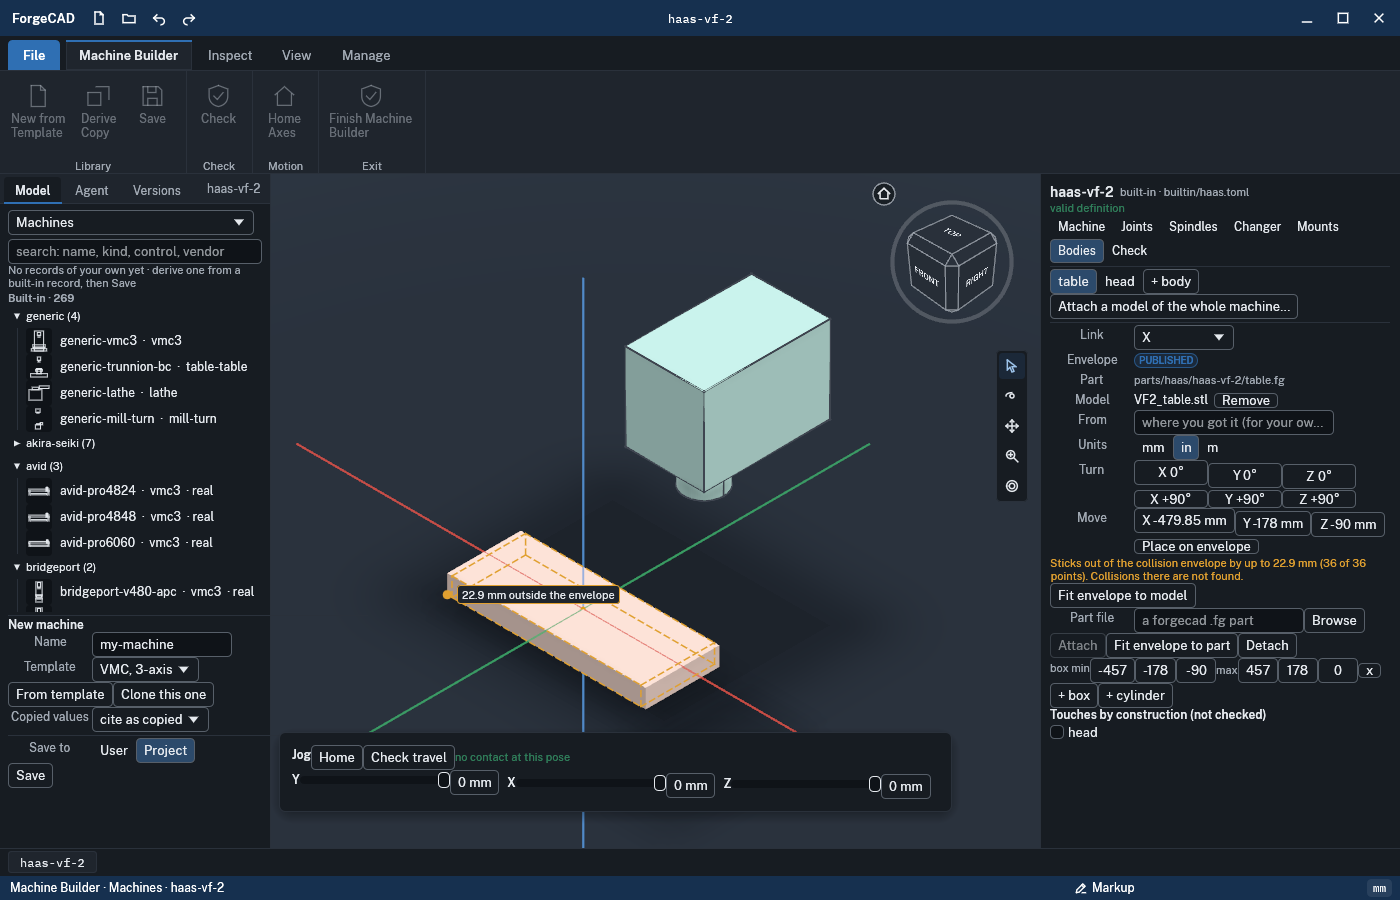
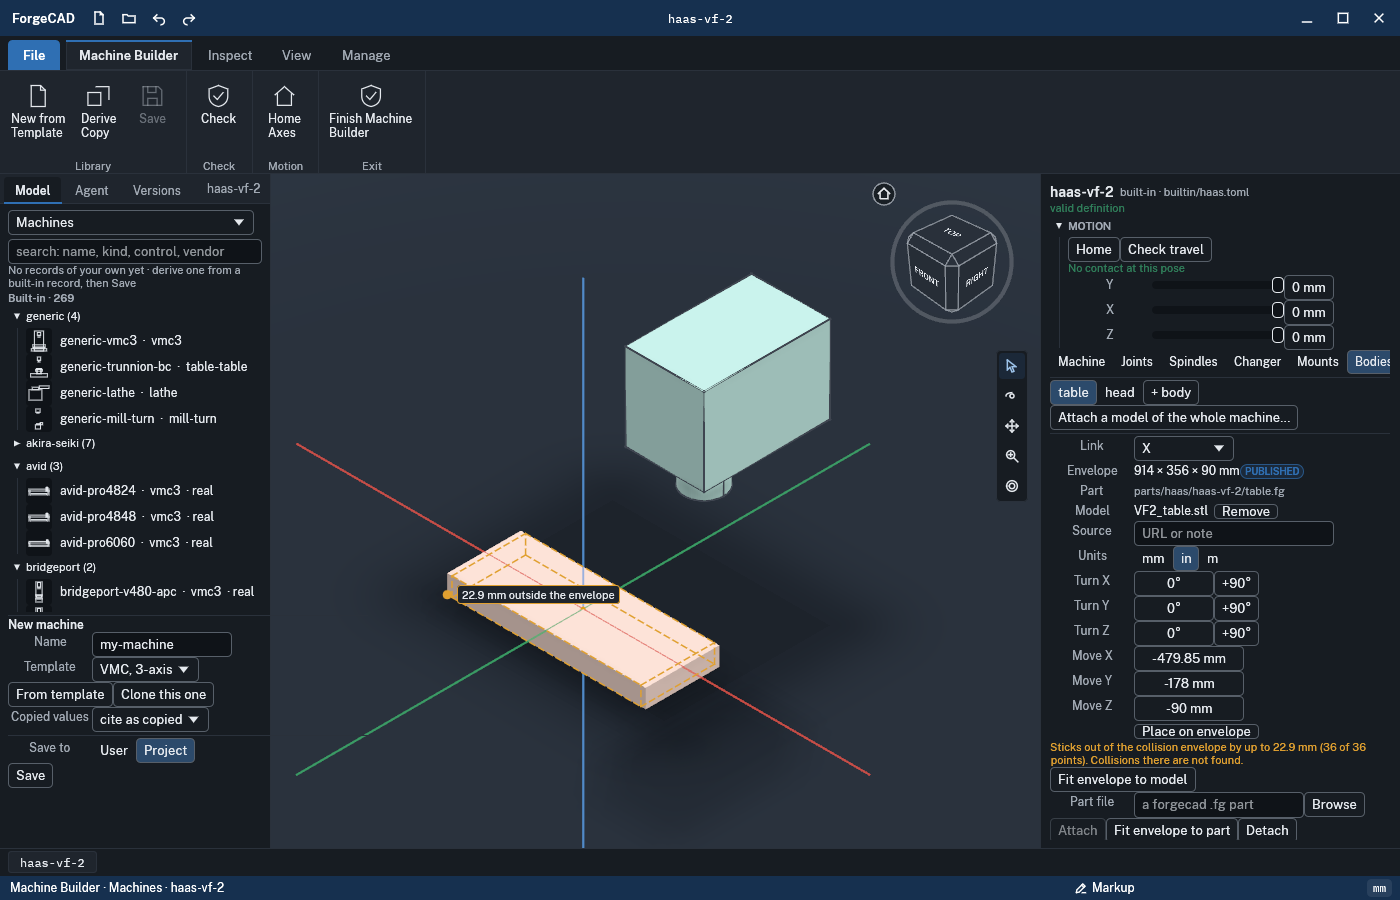
Machine Builder sheet: the jog docked as its Motion section; Turn and Move a row per axis; the envelope's size on its row; the primitives under "Envelope (advanced)"; one-line tabs
UX-LEAD's review of machines/attach-model:
- The jog no longer floats over the view in the environment (§1): the docked sheet opens with a
  Motion section (Home, Check travel, what touches at this pose, a row per joint with its slider
  and value). The floating workspace keeps its bar.
- Model rows: "Source" with the hint "URL or note" (the explanation on hover); Turn X / Y / Z each
  a row with the angle and a "+90°" button; Move X / Y / Z each a row with its value in the
  document's units.
- Envelope: its size first ("914 × 356 × 90 mm"), then its chip. The boxes and cylinders it is
  made of are under "Envelope (advanced)", folded: "Box 1" with Min X/Y/Z and Max X/Y/Z rows,
  "Cylinder n" with Base X/Y/Z, Axis, Radius, Height, a delete icon each, "+ Add box" /
  "+ Add cylinder".
- The editor's tabs stay on one line and scroll sideways at 360 px.
Shots re-shot (native-model-attached, native-model-envelope-fitted).

Claude-Session: https://claude.ai/code/session_01WJtawxzwPxyVa8T89FuUER

diff --git a/interface/forge-render/src/shell/machine.rs b/interface/forge-render/src/shell/machine.rs
@@ -1058,7 +1058,7 @@ impl Shell {
             egui::UiBuilder::new().max_rect(r.shrink2(vec2(10.0, 8.0))),
             |ui| {
                 if st.lib == "machine" {
-                    editor(ui, &t, &mut st, &mut places);
+                    editor(ui, &t, &mut st, &mut places, true);
                 } else if let Some(tu) = &mut st.tooling {
                     super::machine_tooling::editor(ui, &t, tu)
                 } else if let Some(w) = &mut st.workholding {
@@ -1115,17 +1115,7 @@ impl Shell {
             } else {
                 envelope_overlay(ctx, &t, &st, v);
             }
-            if st.lib == "machine" {
-                egui::Window::new("Jog")
-                    .id(egui::Id::unique("machine:jog"))
-                    .title_bar(false)
-                    .resizable(false)
-                    .collapsible(false)
-                    .fixed_pos(pos2(v.left() + 8.0, v.bottom() - 116.0))
-                    .fixed_size(vec2((v.width() - 16.0).max(200.0), 100.0))
-                    .frame(super::theme::panel_frame(&t))
-                    .show(ctx, |ui| jog(ui, &t, &mut st, &mut places));
-            }
+            // a machine's jog is the sheet's Motion section (nothing floats over the view, §1)
             self.places.extend(places);
             self.machine = Some(st);
             return;
@@ -1174,7 +1164,7 @@ impl Shell {
             .frame(super::theme::panel_frame(&t))
             .show(ctx, |ui| {
                 if st.lib == "machine" {
-                    editor(ui, &t, &mut st, &mut places)
+                    editor(ui, &t, &mut st, &mut places, false)
                 } else if let Some(tu) = &mut st.tooling {
                     super::machine_tooling::editor(ui, &t, tu)
                 } else if let Some(w) = &mut st.workholding {
@@ -1589,7 +1579,9 @@ fn library(ui: &mut Ui, t: &Theme, st: &mut MachineUi, places: &mut Vec<(String,
     }
 }
 
-fn editor(ui: &mut Ui, t: &Theme, st: &mut MachineUi, places: &mut Vec<(String, egui::Rect)>) {
+/// The machine's sheet; `docked`: in the environment's properties panel, where the jog is its
+/// Motion section (the floating workspace has its jog bar instead).
+fn editor(ui: &mut Ui, t: &Theme, st: &mut MachineUi, places: &mut Vec<(String, egui::Rect)>, docked: bool) {
     let Some(d) = st.def.clone() else {
         ui.label(small(t, "No machine: pick one, or make one from a template"));
         return;
@@ -1620,16 +1612,28 @@ fn editor(ui: &mut Ui, t: &Theme, st: &mut MachineUi, places: &mut Vec<(String, 
             );
         }
     }
-    ui.horizontal_wrapped(|ui| {
-        for tab in Tab::ALL {
-            let r = ui.selectable_label(st.tab == tab, RichText::new(tab.name()).font(sans(12.0)));
-            places.push((format!("machine:tab:{}", tab.name()), r.rect));
-            if r.clicked() {
-                st.tab = tab;
-                st.pick = 0;
-            }
-        }
-    });
+    if docked {
+        egui::CollapsingHeader::new(RichText::new("MOTION").font(semi(10.5)).color(t.ink2))
+            .id_salt("machine:motion")
+            .default_open(true)
+            .show(ui, |ui| motion(ui, t, st, places));
+    }
+    // one line at any width: the strip scrolls sideways rather than wrapping
+    egui::ScrollArea::horizontal()
+        .id_salt("machine:tabs")
+        .scroll_bar_visibility(egui::scroll_area::ScrollBarVisibility::AlwaysHidden)
+        .show(ui, |ui| {
+            ui.horizontal(|ui| {
+                for tab in Tab::ALL {
+                    let r = ui.selectable_label(st.tab == tab, RichText::new(tab.name()).font(sans(12.0)));
+                    places.push((format!("machine:tab:{}", tab.name()), r.rect));
+                    if r.clicked() {
+                        st.tab = tab;
+                        st.pick = 0;
+                    }
+                }
+            });
+        });
     ui.separator();
     let own = matches!(st.origin, Some((Level::User | Level::Project, _)) | None);
     let mut d2 = d.clone();
@@ -2298,12 +2302,15 @@ fn model_rows(
         }
     });
     ui.horizontal(|ui| {
-        label_w(ui, t, "From");
+        label_w(ui, t, "Source");
         ch |= ui
             .add(
                 egui::TextEdit::singleline(&mut m.from)
-                    .hint_text("where you got it (for your own notes)")
+                    .hint_text("URL or note")
                     .desired_width(200.0),
+            )
+            .on_hover_text(
+                "Where you got the file (the maker's page, your own drawing): kept with it for your notes",
             )
             .lost_focus();
     });
@@ -2316,40 +2323,37 @@ fn model_rows(
             }
         }
     });
-    ui.horizontal(|ui| {
-        label_w(ui, t, "Turn");
-        for (k, a) in ["X ", "Y ", "Z "].iter().enumerate() {
+    // one row per axis: the angle, and a quarter turn that re-places it on the envelope
+    for (k, a) in ["X", "Y", "Z"].iter().enumerate() {
+        ui.horizontal(|ui| {
+            label_w(ui, t, &format!("Turn {a}"));
             ch |= ui
                 .add_sized(
-                    [74.0, 20.0],
+                    [80.0, 20.0],
                     egui::DragValue::new(&mut m.rotate[k])
                         .speed(1.0)
-                        .prefix(*a)
                         .suffix("°")
                         .max_decimals(2),
                 )
                 .changed();
-        }
-    });
-    ui.horizontal(|ui| {
-        label_w(ui, t, "");
-        for (k, a) in ["X", "Y", "Z"].iter().enumerate() {
             if ui
-                .add_sized([74.0, 18.0], egui::Button::new(format!("{a} +90°")).small())
-                .on_hover_text("a quarter turn, then placed on the envelope again")
+                .button("+90°")
+                .on_hover_text(format!(
+                    "a quarter turn about {a}, then placed on the envelope again"
+                ))
                 .clicked()
             {
                 m.rotate[k] = (m.rotate[k] + 90.0) % 360.0;
                 touch.replace_model = Some(i);
             }
-        }
-    });
-    ui.horizontal(|ui| {
-        label_w(ui, t, "Move");
-        for (k, a) in ["X ", "Y ", "Z "].iter().enumerate() {
-            ch |= super::lib_form::num_edit_in(ui, &mut m.offset[k], "mm", a, Some(74.0));
-        }
-    });
+        });
+    }
+    for (k, a) in ["X", "Y", "Z"].iter().enumerate() {
+        ui.horizontal(|ui| {
+            label_w(ui, t, &format!("Move {a}"));
+            ch |= super::lib_form::num_edit_in(ui, &mut m.offset[k], "mm", "", Some(110.0));
+        });
+    }
     ui.horizontal(|ui| {
         label_w(ui, t, "");
         if ui
@@ -2475,6 +2479,18 @@ fn tab_bodies(
     link_row(ui, t, "Link", "machine:b-link", &mut b.link, &links, touch);
     ui.horizontal(|ui| {
         label_w(ui, t, "Envelope");
+        // its size first (the boxes' and cylinders' bounds), then where it comes from
+        if let Some((lo, hi)) = models::prims_bounds(&b.prims) {
+            let doc = super::lib_form::doc_units();
+            let per = forge_units::lookup(doc).map_or(1.0, |(_, top, bottom)| top / bottom);
+            let d = |k: usize| forge_units::trim(((hi[k] - lo[k]) / per * 100.0).round() / 100.0);
+            ui.label(
+                RichText::new(format!("{} × {} × {} {doc}", d(0), d(1), d(2)))
+                    .font(sans(12.0))
+                    .color(t.ink),
+            )
+            .on_hover_text("the envelope's bounds (x × y × z): collisions are found on it");
+        }
         chip(ui, c, &path, touch);
     });
     ui.horizontal(|ui| {
@@ -2544,60 +2560,97 @@ fn tab_bodies(
     });
     let mut del = None;
     let mut ch = false;
-    for (i, p) in b.prims.iter_mut().enumerate() {
-        ui.horizontal(|ui| {
-            match p {
-                Prim::Box { min, max } => {
-                    ui.label(small(t, "box min"));
-                    for x in min.iter_mut() {
-                        ch |= ui.add(egui::DragValue::new(x).speed(1.0)).changed();
+    let mut add: Option<Prim> = None;
+    egui::CollapsingHeader::new(RichText::new("Envelope (advanced)").font(sans(12.0)))
+        .id_salt(("machine:envelope", *pick))
+        .default_open(false)
+        .show(ui, |ui| {
+            for (i, p) in b.prims.iter_mut().enumerate() {
+                match p {
+                    Prim::Box { min, max } => {
+                        ui.horizontal(|ui| {
+                            ui.label(
+                                RichText::new(format!("Box {}", i + 1))
+                                    .font(semi(11.0))
+                                    .color(t.ink),
+                            );
+                            if super::ux::icon_button(ui, t, "delete", "Remove this box", false).clicked() {
+                                del = Some(i);
+                            }
+                        });
+                        for (w, v) in [("Min", min), ("Max", max)] {
+                            for (k, a) in ["X", "Y", "Z"].iter().enumerate() {
+                                ui.horizontal(|ui| {
+                                    label_w(ui, t, &format!("{w} {a}"));
+                                    ch |= super::lib_form::num_edit_in(ui, &mut v[k], "mm", "", Some(110.0));
+                                });
+                            }
+                        }
                     }
-                    ui.label(small(t, "max"));
-                    for x in max.iter_mut() {
-                        ch |= ui.add(egui::DragValue::new(x).speed(1.0)).changed();
+                    Prim::Cyl { base, axis, r, h } => {
+                        ui.horizontal(|ui| {
+                            ui.label(
+                                RichText::new(format!("Cylinder {}", i + 1))
+                                    .font(semi(11.0))
+                                    .color(t.ink),
+                            );
+                            if super::ux::icon_button(ui, t, "delete", "Remove this cylinder", false)
+                                .clicked()
+                            {
+                                del = Some(i);
+                            }
+                        });
+                        for (k, a) in ["X", "Y", "Z"].iter().enumerate() {
+                            ui.horizontal(|ui| {
+                                label_w(ui, t, &format!("Base {a}"));
+                                ch |= super::lib_form::num_edit_in(ui, &mut base[k], "mm", "", Some(110.0));
+                            });
+                        }
+                        ui.horizontal(|ui| {
+                            label_w(ui, t, "Axis");
+                            for x in axis.iter_mut() {
+                                ch |= ui
+                                    .add_sized(
+                                        [52.0, 20.0],
+                                        egui::DragValue::new(x).speed(0.01).max_decimals(3),
+                                    )
+                                    .changed();
+                            }
+                        });
+                        for (w, v) in [("Radius", r), ("Height", h)] {
+                            ui.horizontal(|ui| {
+                                label_w(ui, t, w);
+                                ch |= super::lib_form::num_edit_in(ui, v, "mm", "", Some(110.0));
+                            });
+                        }
                     }
                 }
-                Prim::Cyl { base, axis, r, h } => {
-                    ui.label(small(t, "cyl base"));
-                    for x in base.iter_mut() {
-                        ch |= ui.add(egui::DragValue::new(x).speed(1.0)).changed();
-                    }
-                    ui.label(small(t, "axis"));
-                    for x in axis.iter_mut() {
-                        ch |= ui.add(egui::DragValue::new(x).speed(0.01)).changed();
-                    }
-                    ui.label(small(t, "r h"));
-                    ch |= ui.add(egui::DragValue::new(r).speed(1.0)).changed();
-                    ch |= ui.add(egui::DragValue::new(h).speed(1.0)).changed();
+            }
+            ui.horizontal(|ui| {
+                if ui.button("+ Add box").clicked() {
+                    add = Some(Prim::Box {
+                        min: [-50.0; 3],
+                        max: [50.0; 3],
+                    });
                 }
-            }
-            if ui.small_button("x").clicked() {
-                del = Some(i);
-            }
+                if ui.button("+ Add cylinder").clicked() {
+                    add = Some(Prim::Cyl {
+                        base: [0.0; 3],
+                        axis: [0.0, 0.0, 1.0],
+                        r: 50.0,
+                        h: 100.0,
+                    });
+                }
+            });
         });
-    }
     if let Some(i) = del {
         b.prims.remove(i);
         ch = true;
     }
-    ui.horizontal(|ui| {
-        if ui.button("+ box").clicked() {
-            b.prims.push(Prim::Box {
-                min: [-50.0; 3],
-                max: [50.0; 3],
-            });
-            ch = true;
-        }
-        if ui.button("+ cylinder").clicked() {
-            b.prims.push(Prim::Cyl {
-                base: [0.0; 3],
-                axis: [0.0, 0.0, 1.0],
-                r: 50.0,
-                h: 100.0,
-            });
-            ch = true;
-        }
-    });
+    if let Some(p) = add {
+        b.prims.push(p);
+        ch = true;
+    }
     // boxes before cylinders: the reader's order
     if ch {
         b.prims.sort_by_key(|p| matches!(p, Prim::Cyl { .. }));
@@ -2788,6 +2841,62 @@ fn jog(ui: &mut Ui, t: &Theme, st: &mut MachineUi, places: &mut Vec<(String, egu
             ui.add_space(8.0);
         }
     });
+    if moved {
+        st.jogged();
+    }
+}
+
+/// The docked sheet's Motion section: Home and Check travel, what touches at this pose, then a
+/// row per joint (its name, a slider over its range, the value with its unit).
+fn motion(ui: &mut Ui, t: &Theme, st: &mut MachineUi, places: &mut Vec<(String, egui::Rect)>) {
+    let Some(d) = st.def.clone() else { return };
+    let mut moved = false;
+    ui.horizontal(|ui| {
+        let r = ui.button("Home");
+        places.push(("machine:home".into(), r.rect));
+        if r.clicked() {
+            st.q = d.joints.iter().map(|j| j.home).collect();
+            moved = true;
+        }
+        let r = ui.add_enabled(st.problem.is_none(), egui::Button::new("Check travel"));
+        places.push(("machine:check".into(), r.rect));
+        if r.clicked() {
+            st.run_check();
+        }
+    });
+    let (line, col) = if st.problem.is_some() {
+        ("fix the definition to jog and check".to_string(), t.error)
+    } else if st.live.is_empty() {
+        ("No contact at this pose".to_string(), t.success)
+    } else {
+        let s: Vec<String> = st
+            .live
+            .iter()
+            .map(|(a, b, hit)| format!("{a} / {b} {}", if *hit { "touch" } else { "near" }))
+            .collect();
+        (format!("Contact: {}", s.join(", ")), t.error)
+    };
+    ui.label(RichText::new(line).font(sans(11.0)).color(col));
+    let w = (ui.available_width() - 84.0 - 16.0).max(120.0);
+    for (i, j) in d.joints.iter().enumerate() {
+        if i >= st.q.len() {
+            break;
+        }
+        let (lo, hi) = (j.range[0].min(j.range[1]), j.range[0].max(j.range[1]));
+        ui.horizontal(|ui| {
+            label_w(ui, t, &j.name);
+            ui.spacing_mut().slider_width = (w - 90.0).max(60.0);
+            let u = if j.ty == JointType::Linear { " mm" } else { "°" };
+            // a copy: the slider rounds what it shows, and only a move by the user may change q
+            let mut x = st.q[i];
+            let r = ui.add(egui::Slider::new(&mut x, lo..=hi).suffix(u).max_decimals(3));
+            places.push((format!("machine:jog:{}", j.name), r.rect));
+            if r.changed() && (r.dragged() || r.has_focus() || r.clicked()) {
+                st.q[i] = x;
+                moved = true;
+            }
+        });
+    }
     if moved {
         st.jogged();
     }

diff --git a/interface/forge-render/src/shell/lib_form.rs b/interface/forge-render/src/shell/lib_form.rs
@@ -503,6 +503,11 @@ pub fn level_head(ui: &mut Ui, t: &Theme, level: &str, n: usize) {
     );
 }
 
+/// The document's length unit word ("mm", "in"), for a table's column heading.
+pub fn doc_units() -> &'static str {
+    DOC_UNITS.with(|c| c.get())
+}
+
 /// Above a library list with no records of the user's own yet: what to do next.
 pub fn empty_levels(ui: &mut Ui, t: &Theme, any_own: bool) {
     if !any_own {
